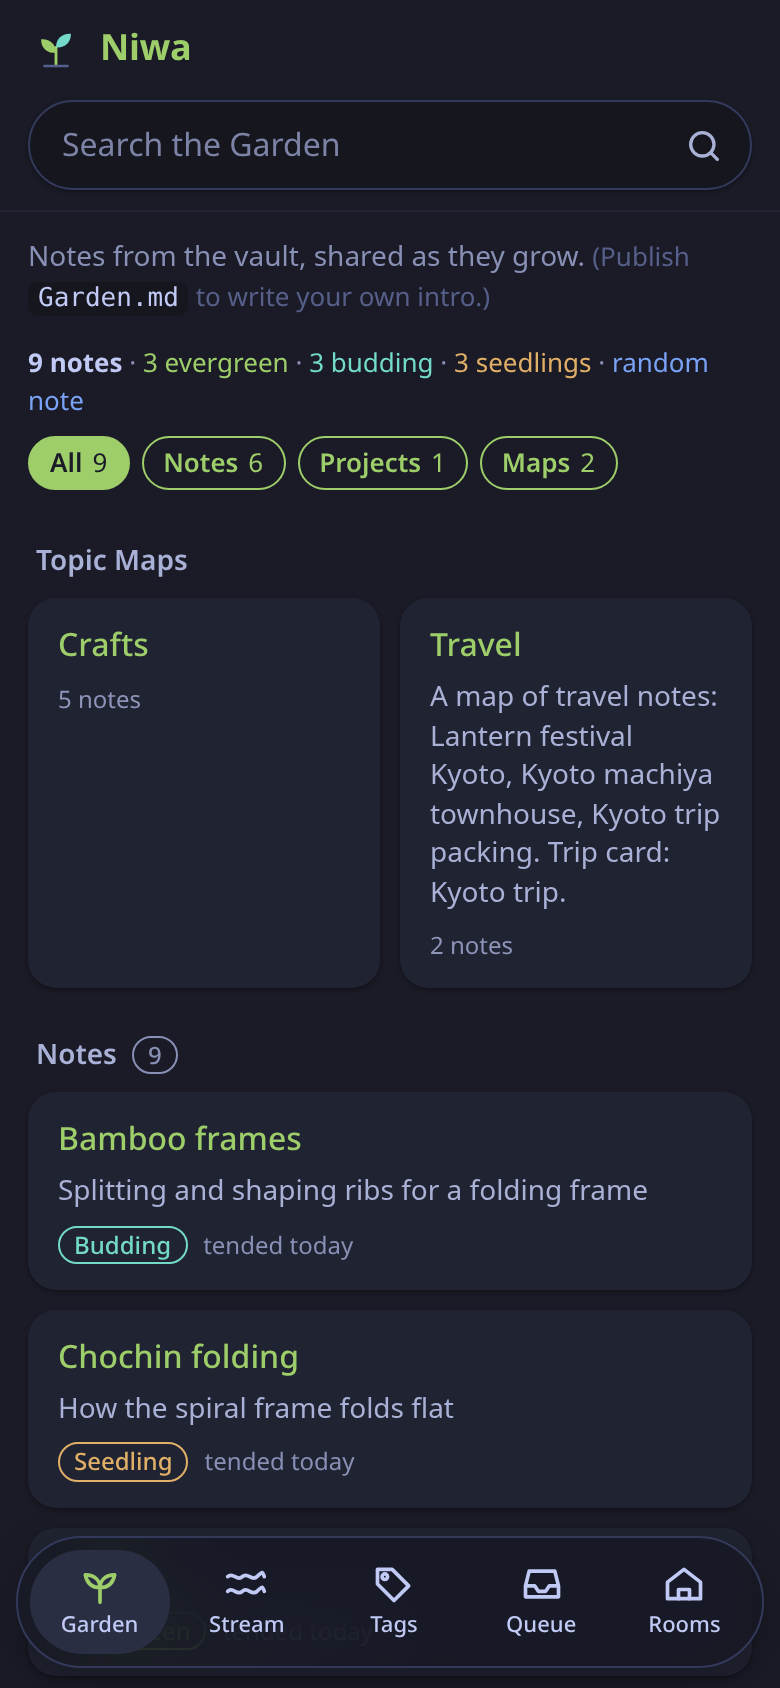
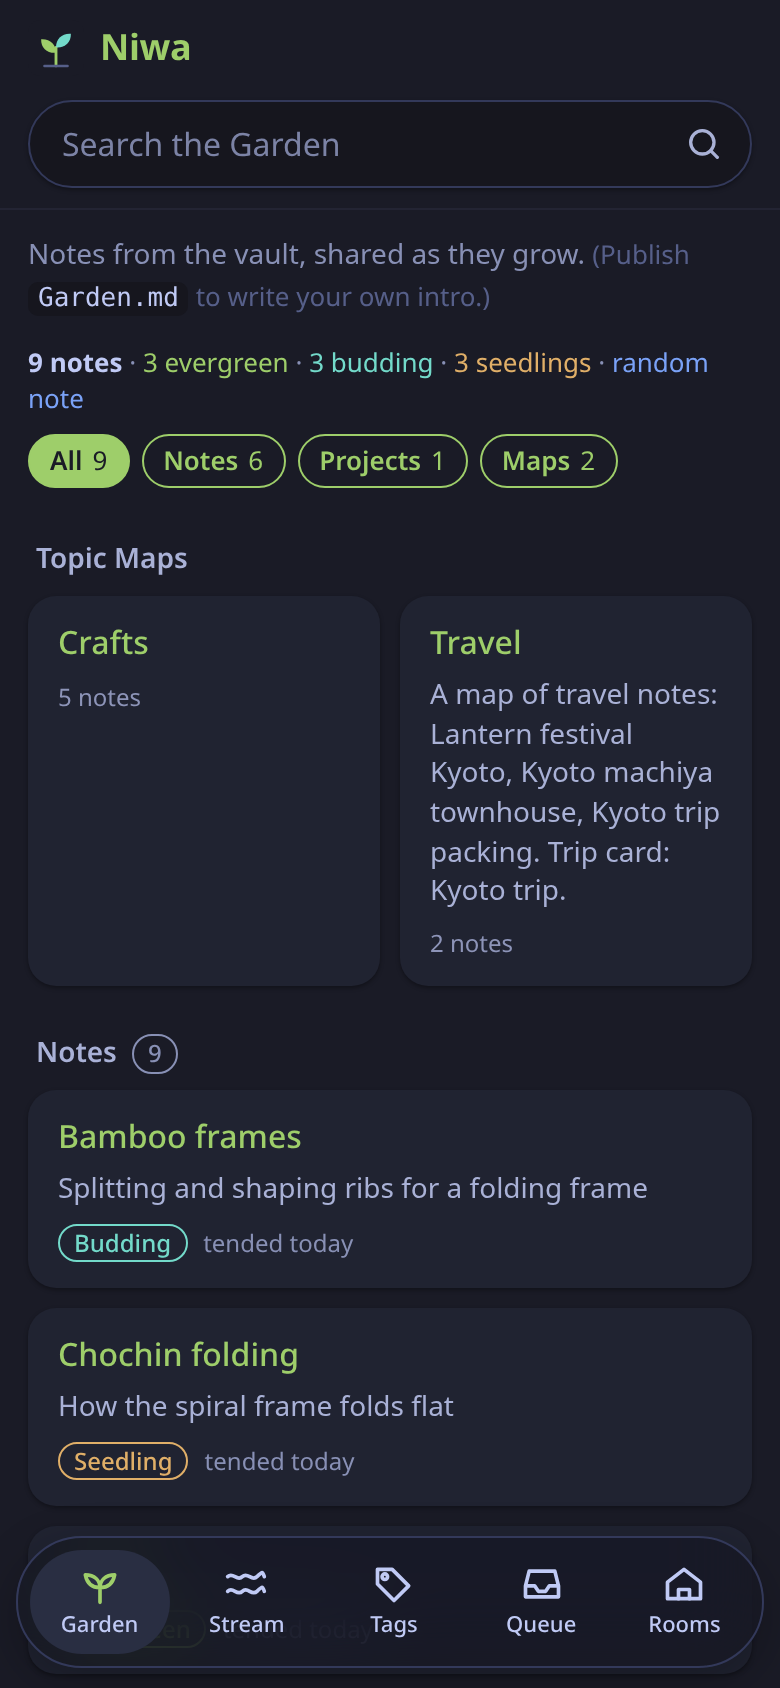
niwa 0.15.4: vaultkit 0.31.3: the search field's text is the tabs' size from 1100px, one focus ring; the footer sits at the window's bottom on a short page

diff --git a/app/vaultkit/ui/machiya.css b/app/vaultkit/ui/machiya.css
@@ -540,6 +540,8 @@ header.top {
   .tools > * { order: 1; }
   header.top > .searchrow { order: 2; flex: 0 .2 auto; width: clamp(180px, 75vw - 540px, 420px); min-width: 150px;
     margin: 0; padding: 6px 0; }
+  /* the field's text is the tabs' (v0.31.3, owner 2026-10-11); the line keeps the 16px field's height, so the pill doesn't shrink */
+  header.top > .searchrow form.search.searchbar input { font-size: var(--fs-s); font-weight: 500; line-height: calc(var(--fs-l) * 1.4); }
   .tools > :is(.rooms, .who, .gear) { order: 3; }
   /* the tools' own 10px gap, inside the header's 16px one */
   .tools > :not(.rooms, .who, .gear) + :not(.rooms, .who, .gear), .tools > :is(.rooms, .who, .gear) + :is(.who, .gear) {
@@ -793,10 +795,12 @@ form.search.searchbar { display: block; max-width: 720px; }
 form.search.searchbar .field { position: relative; }
 form.search.searchbar input { width: 100%; max-width: none; height: auto; padding: 10px 44px 10px 16px; border-radius: 999px;
   border: 1px solid var(--line2); background: var(--dark); color: var(--menu-fg, var(--fg)); font: inherit; font-size: var(--fs-l);
-  box-shadow: var(--shadow-1); transition: none; }
+  line-height: 1.4; box-shadow: var(--shadow-1); transition: none; }   /* 1.4: Shiori Search's field height (v0.31.3) */
 form.search.searchbar input::placeholder { color: var(--muted); opacity: .9; }
 form.search.searchbar input:focus { outline: none; border-color: var(--room); }
-form.search.searchbar input:focus-visible { outline: 2px solid var(--room); outline-offset: 2px; }
+/* focused, one solid 2px ring on the field's edge, as Shiori Search's (v0.31.3, owner 2026-10-11; was the border plus a ring
+   2px outside it) */
+form.search.searchbar input:focus-visible { outline: 2px solid var(--room); outline-offset: -2px; }
 form.search.searchbar input::-webkit-search-cancel-button { display: none; }
 /* the clear X (shown once there's text) and, on phones, a magnifier that submits (v0.17.1, as Kagi's field) */
 form.search.searchbar .clear, form.search.searchbar .go { position: absolute; top: 50%; transform: translateY(-50%); width: 32px; height: 32px;

diff --git a/app/vaultkit/ui/machiya.js b/app/vaultkit/ui/machiya.js
@@ -853,3 +853,21 @@ document.addEventListener("click", (event) => {
   if (window.ResizeObserver) new ResizeObserver(set).observe(h);
   else window.addEventListener("resize", set);
 })();
+
+/* The footer at the bottom of the window when the page is shorter than it, and right after the content when it's longer
+   (v0.31.3, owner 2026-10-11). The free height goes above the footer as margin, so nothing else in the page moves (a flex
+   column would stop the main's margins collapsing). The body is at least the window's height, so the margin never changes
+   the body's size and the observer doesn't loop. */
+(function () {
+  const foot = document.querySelector(".foot");
+  if (!foot || foot.parentElement !== document.body) return;
+  const place = () => {
+    foot.style.marginTop = "";
+    const end = foot.getBoundingClientRect().bottom + window.scrollY + parseFloat(getComputedStyle(document.body).paddingBottom);
+    const gap = Math.floor(document.documentElement.clientHeight - end);
+    if (gap > 0) foot.style.marginTop = parseFloat(getComputedStyle(foot).marginTop) + gap + "px";
+  };
+  place();
+  if (window.ResizeObserver) new ResizeObserver(place).observe(document.body);
+  window.addEventListener("resize", place);
+})();

diff --git a/tests/test_niwa.py b/tests/test_niwa.py
@@ -3047,6 +3047,13 @@ class PublicGardenTest(unittest.TestCase):
             shared_css = f.read()
         self.assertIn(".topbar > .subtitle { flex: 0 1 auto; max-width: clamp(96px, 14vw, 320px); }", shared_css)
         self.assertIn("width: clamp(180px, 75vw - 540px, 420px); min-width: 150px;", shared_css)     # the pill, v0.31.2
+        self.assertIn("form.search.searchbar input:focus-visible { outline: 2px solid var(--room); outline-offset: -2px; }",
+                      shared_css)                                                        # one ring on the edge, v0.31.3
+        self.assertIn("header.top > .searchrow form.search.searchbar input { font-size: var(--fs-s); font-weight: 500;", shared_css)
+        with open(os.path.join(os.path.dirname(__file__), "..", "app", "vaultkit", "ui", "machiya.js")) as f:
+            self.assertIn('foot.style.marginTop = parseFloat(getComputedStyle(foot).marginTop) + gap + "px"', f.read())   # v0.31.3
+        with open(os.path.join(os.path.dirname(__file__), "..", "app", "static", "niwa.css")) as f:
+            self.assertNotIn(".foot", f.read())                                          # the footer's place is machiya.js's
 
     def test_a_live_link_keeps_its_original_with_an_archive_link_beside_it(self):
         want = ('<a href="https://live.example/y">the live page</a> <a class="arch" title="Archived copy from 2026-09-02" '

diff --git a/app/vaultkit/__init__.py b/app/vaultkit/__init__.py
@@ -13,4 +13,4 @@ from .vault import CALLOUT_RE, EMBED_RE, HIDDEN, IMAGE_EXT, MDIMG_RE, Vault     
 from .frontmatter import EditError, edit_front, merge_note, version_of, yaml_scalar   # noqa: F401
 from .gitsync import GitSync                                                          # noqa: F401
 
-__version__ = "0.31.2"
+__version__ = "0.31.3"

diff --git a/app/niwa.py b/app/niwa.py
@@ -52,7 +52,7 @@ from vaultkit import read_secret  # noqa: E402
 from vaultkit import signin  # noqa: E402
 from writer import Writer, WriteError  # noqa: E402
 
-VERSION = "0.15.3"
+VERSION = "0.15.4"
 PORT = int(os.environ.get("NIWA_PORT", "8080"))
 USERS = set(filter(None, (u.strip() for u in os.environ.get("NIWA_USERS", "").split(","))))
 

diff --git a/app/CHANGELOG.md b/app/CHANGELOG.md
@@ -3,6 +3,14 @@
 Niwa follows [SemVer](https://semver.org). Before 1.0, a new feature, a changed default or setting, or a changed API
 field is a minor bump, and a fix or wording change is a patch. Settings are listed in the README.
 
+## 0.15.4
+
+vaultkit 0.31.3 (owner decision 2026-10-11).
+
+- From 1100px the search field's text is the tabs' size and weight; on phones and below 1100px it stays 16px, so iOS doesn't zoom in.
+- The field is the height of Shiori Search's (44.4px), and focused it shows one solid ring on its edge instead of the border plus a second ring outside it.
+- On a page shorter than the window (a filter that leaves one card, an empty tag), the footer sits at the bottom of the window. On a longer page it stays right after the content.
+
 ## 0.15.3
 
 vaultkit 0.31.2 (owner decision 2026-10-11).
